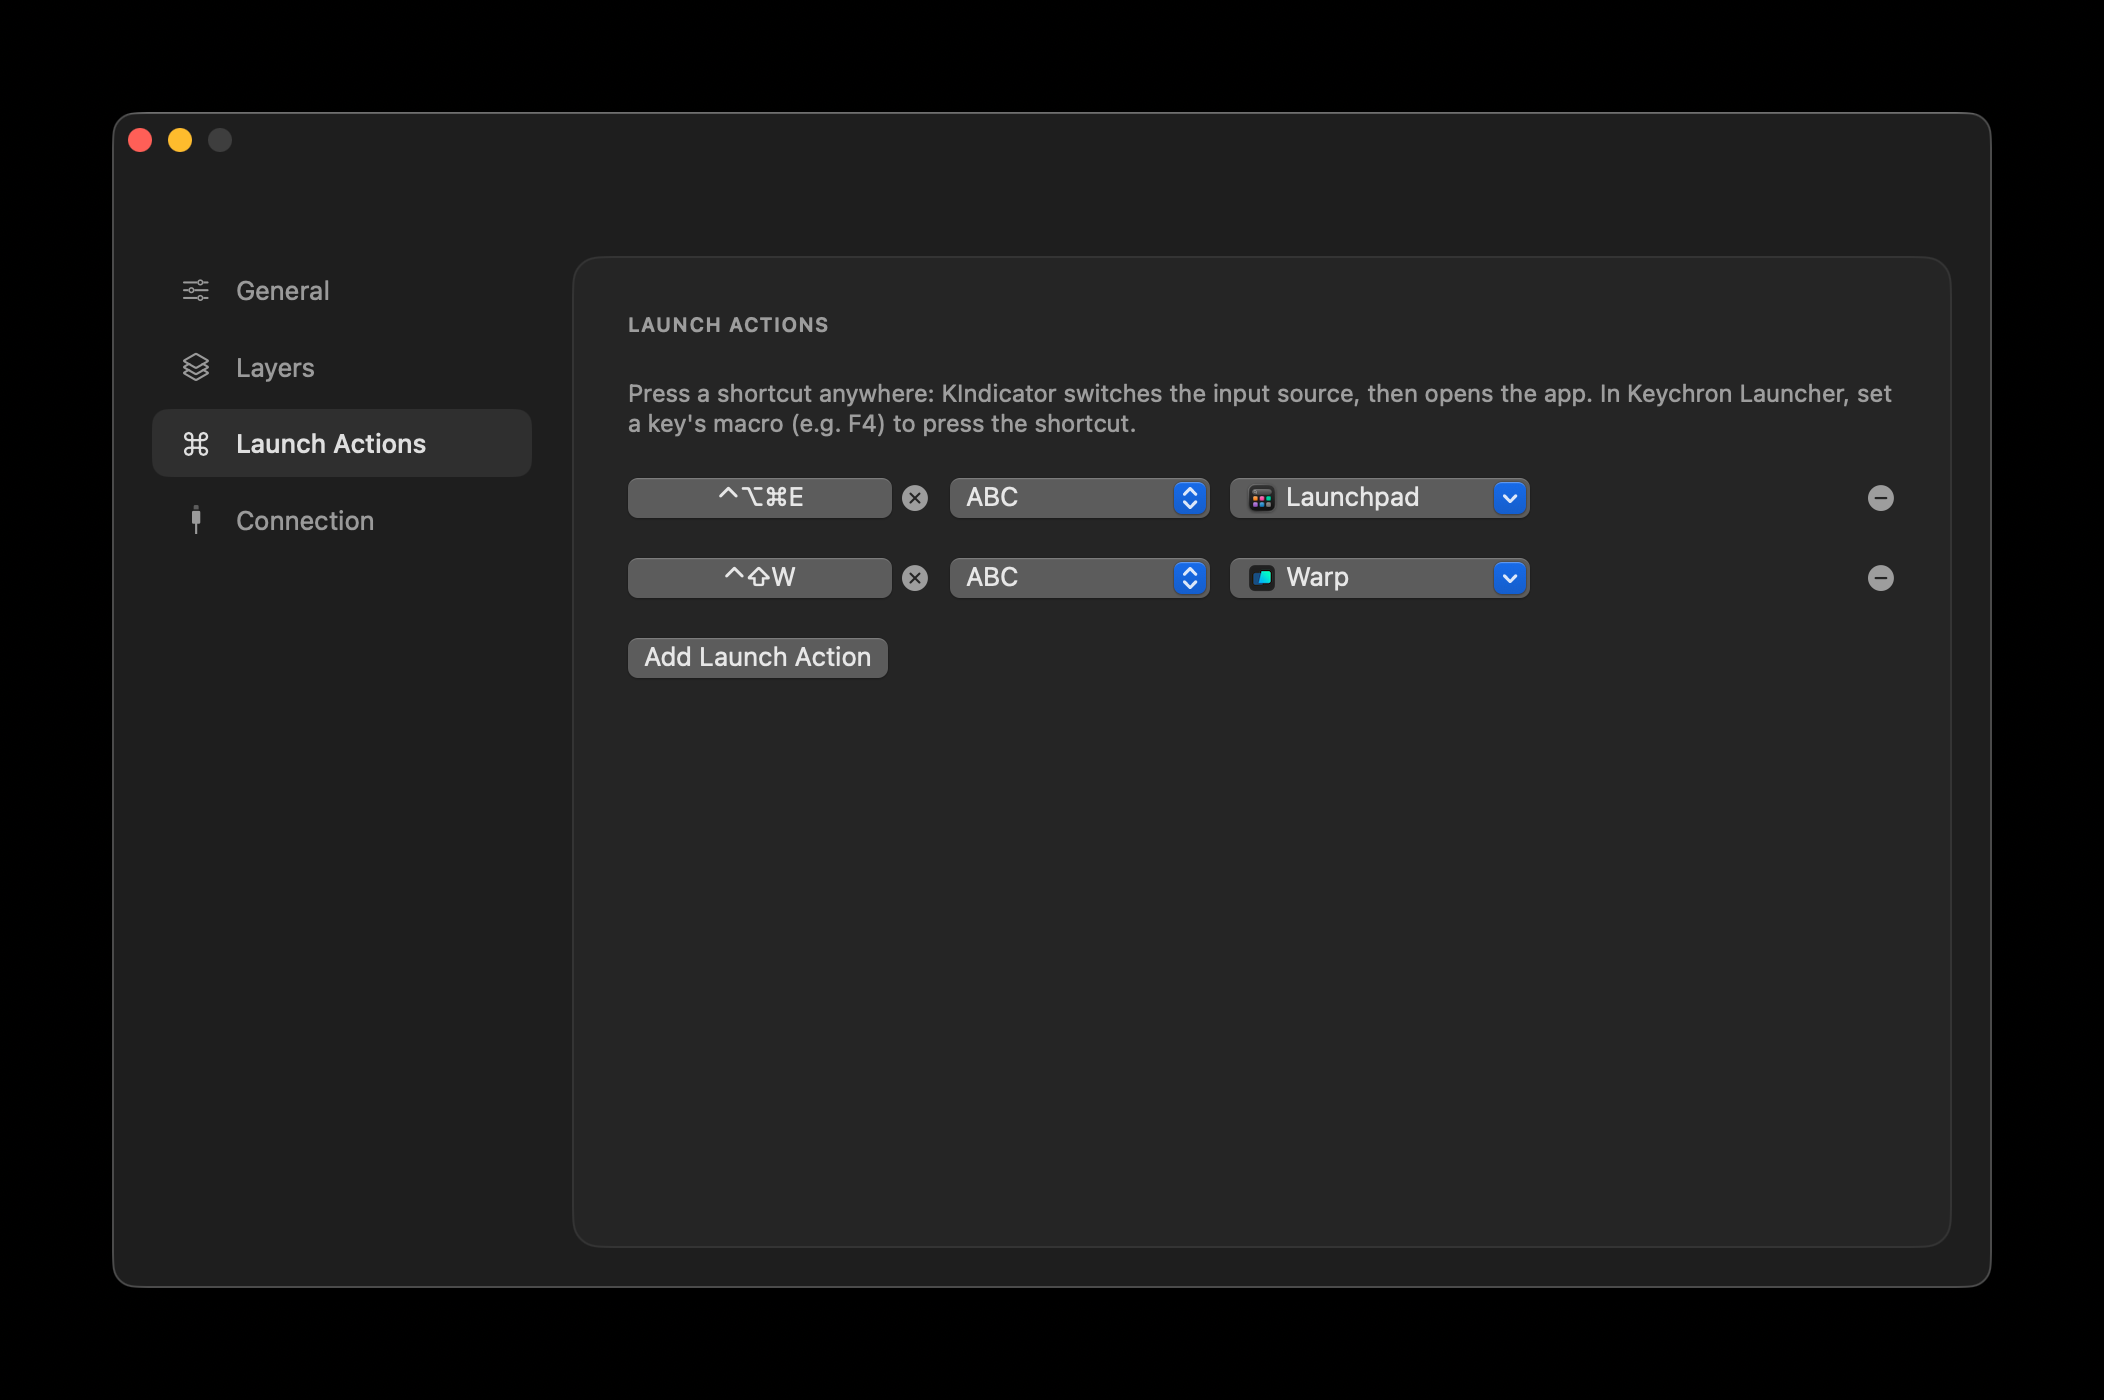
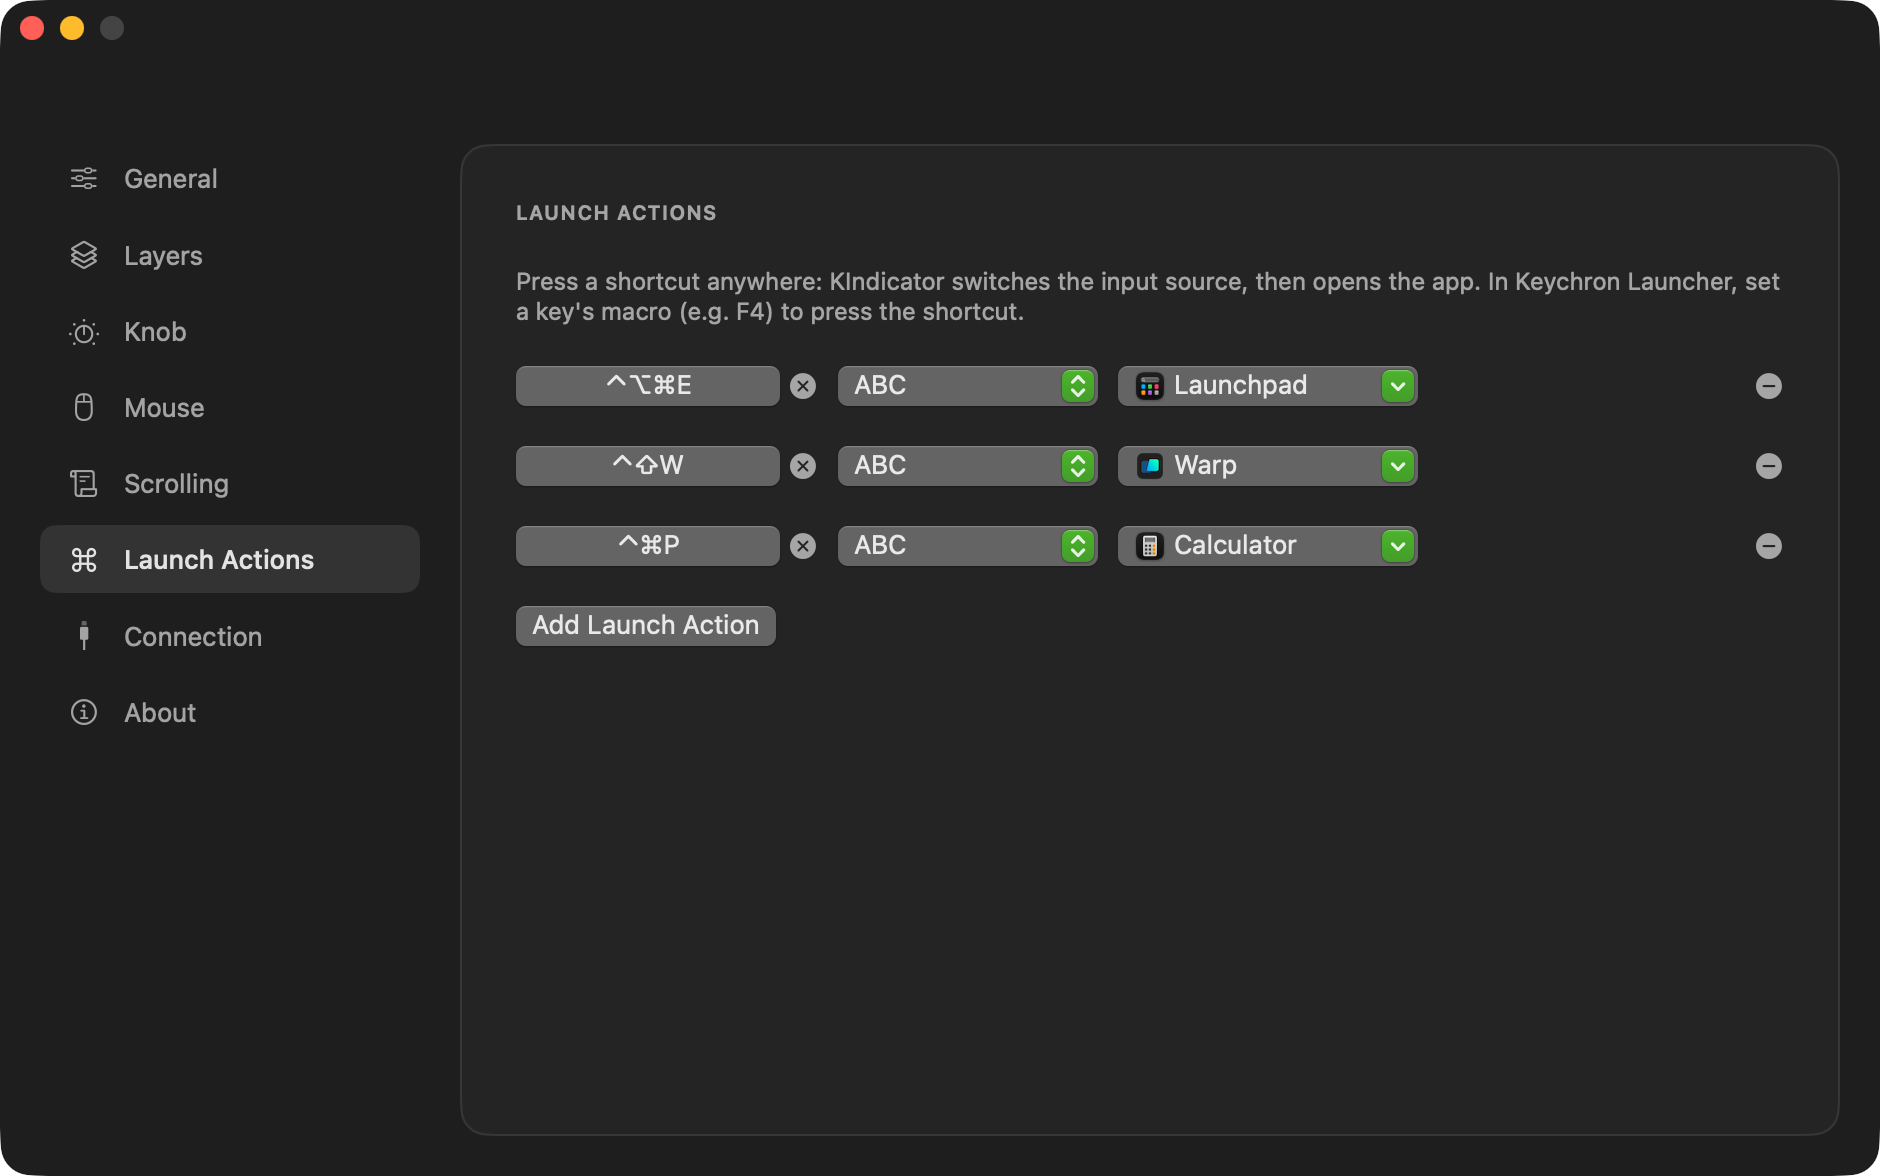
Docs updated

diff --git a/README.md b/README.md
@@ -69,6 +69,8 @@ KIndicator reads the active layer from the keyboard and shows it in the menu bar
 
 ![Launch actions: shortcut, input source and app](docs/launch-actions.png)
 
+![Mouse: double-click, actions per app, smooth scrolling](docs/mouse.png)
+
 ## Download
 
 Get the latest `KIndicator-<version>.dmg` from
